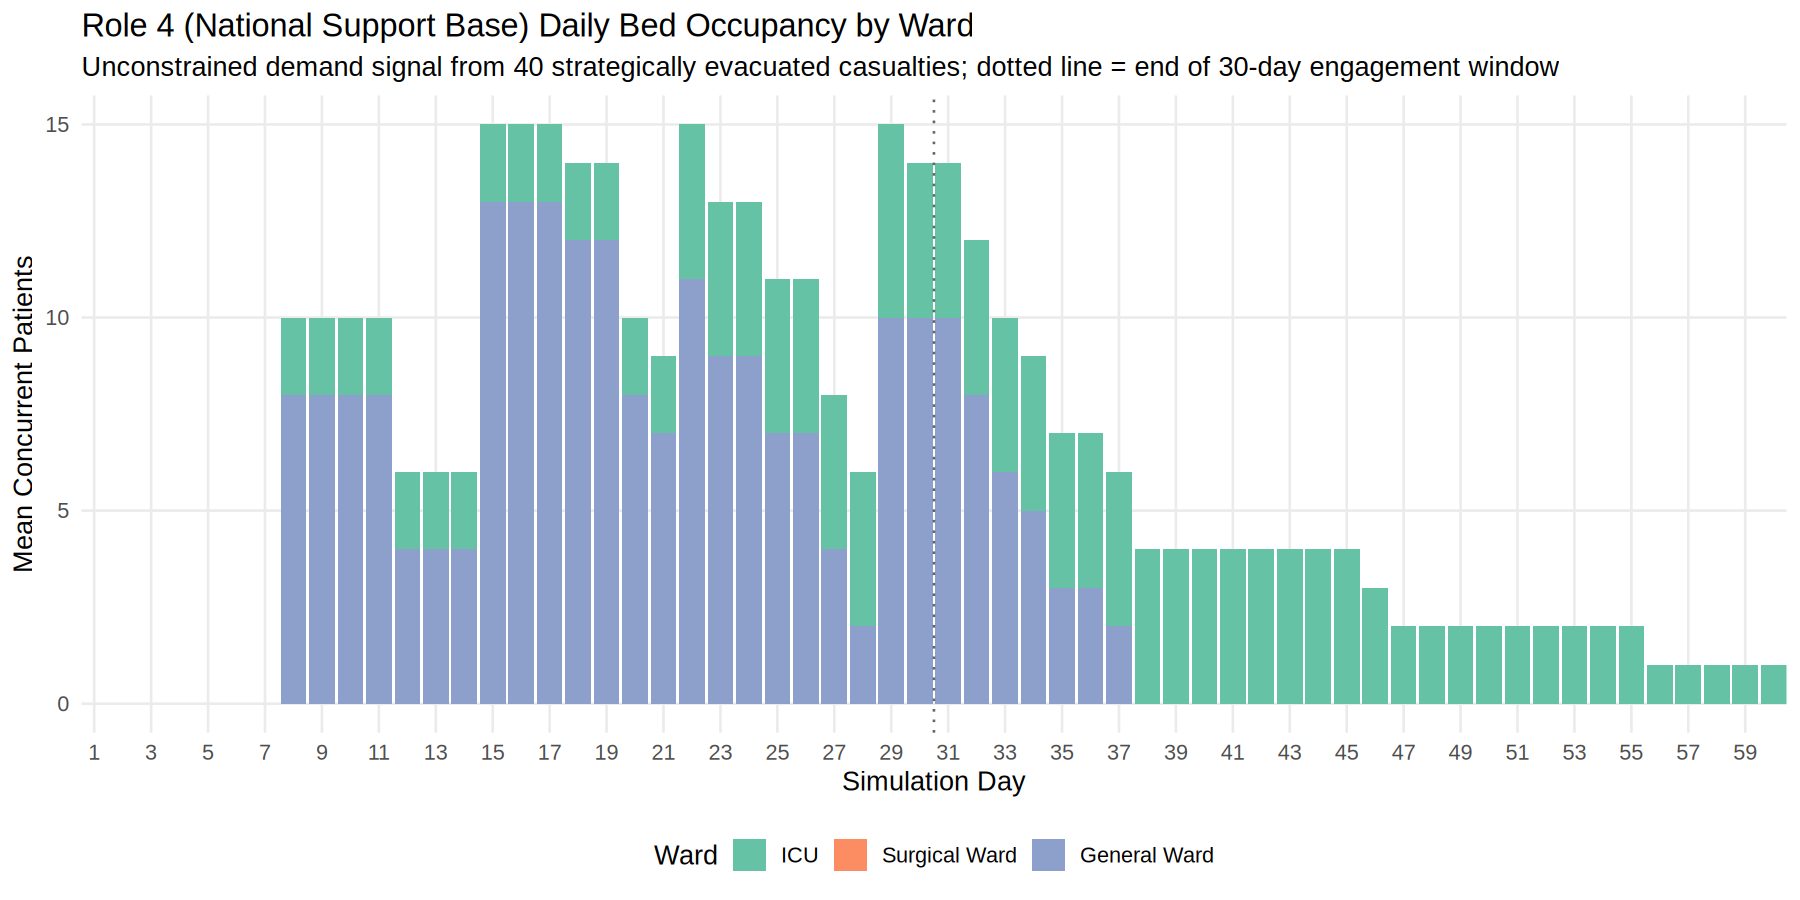
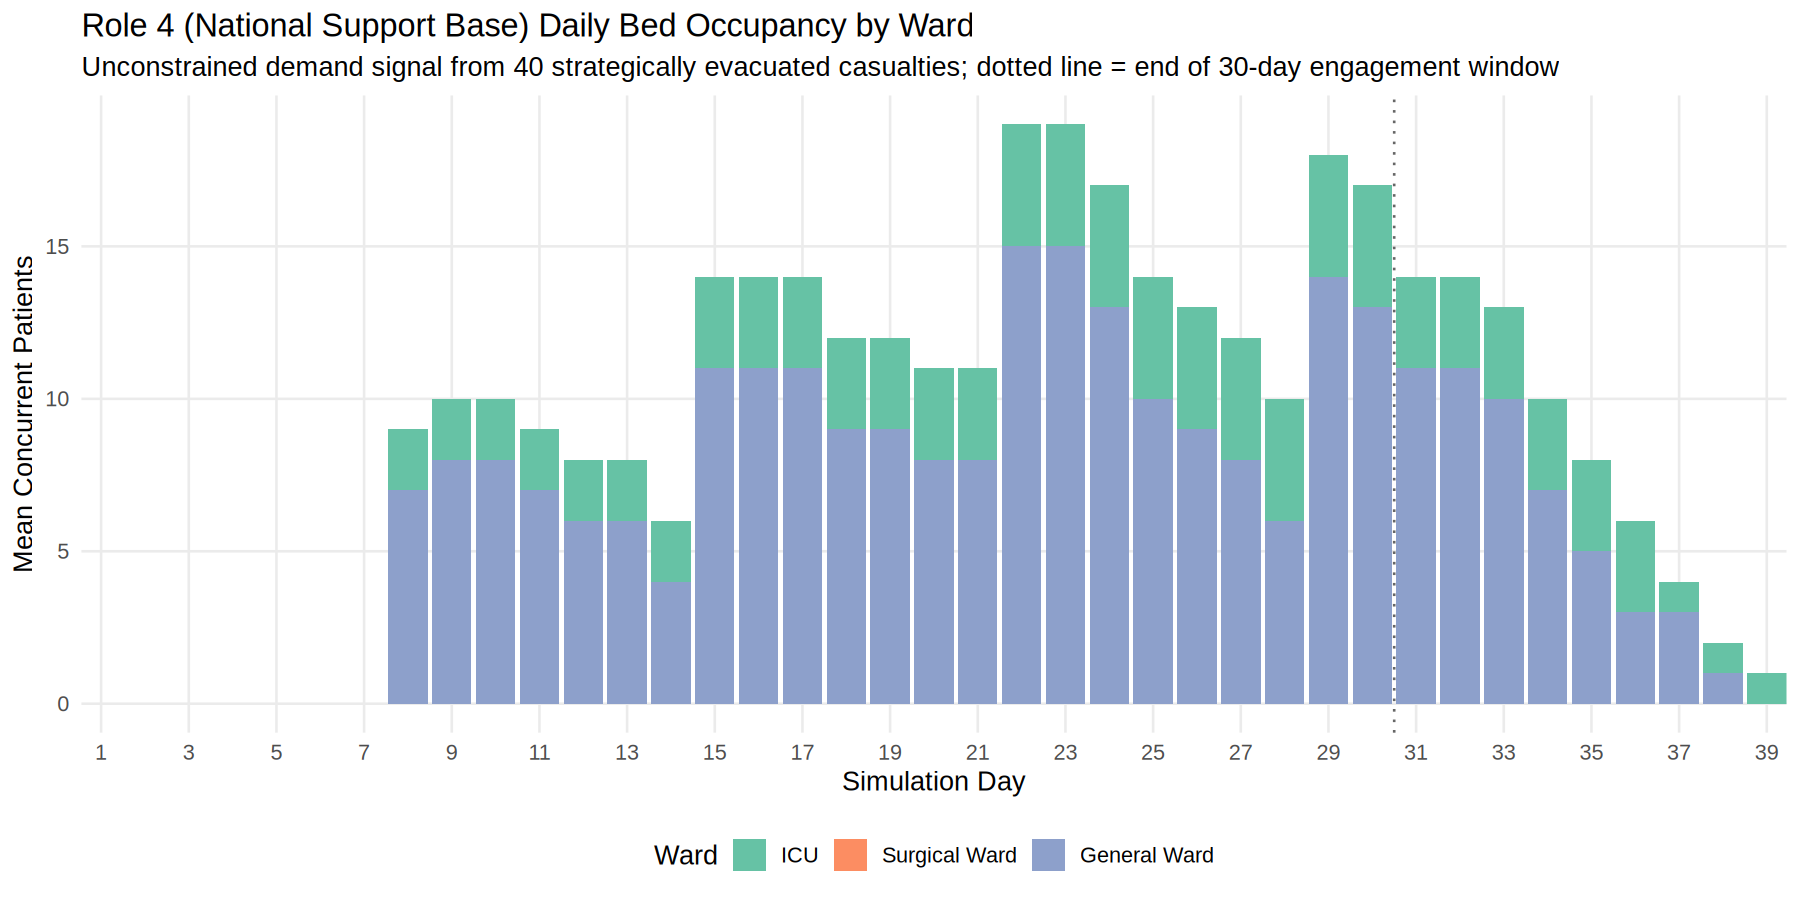
feat(issue-23): add periodic DOW risk while awaiting strategic AME
Casualties queued for AME (either pool) were previously the one
population in the model facing zero mortality risk regardless of wait
duration — every other DOW checkpoint precedes a further step that
would price in delay-accrued risk at the next check, but the R2E
post-operative check is the model's last fixed checkpoint, and the
subsequent AME wait is unbounded.

ame_dow_poll() (R/trajectories.R) closes this gap using the same
conditional-increment logistic formula as every other checkpoint
(dow_prob_conditional(), same priority-based parameters and
dow_ceiling), applied periodically (role4.ame.dow_check_interval,
default 1440 min/daily) via the same timeout-then-rollback polling
pattern already used for R2E OT-ICU gating deferral. Availability is
checked immediately on entry so casualties who board with zero wait
are unaffected; only queued casualties enter the poll loop. A
casualty who dies while queued releases their held R2E bed and routes
to KIA processing exactly as at every other checkpoint. New
dow_echelon = 5 distinguishes this checkpoint in dow_by_echelon.csv
("ame_wait").

Exposed as a new Shiny field (Strategic AME panel) and documented as
a new README subsection (Died of Wounds — AME Wait Checkpoint) with a
MODEL ASSUMPTION block for the poll interval default. Limitation L16
and the Strategic Evacuation and Role 4 Demand section updated with
fresh seed-42 figures.

Debugging note: an early implementation placed the new helper function
[…]

diff --git a/README.md b/README.md
@@ -71,6 +71,7 @@ This tool supports iterative refinement and stakeholder engagement, offering a t
   - [Multi-Echelon Check and Conditional Increment](#multiechelon-check-and-conditional-increment)
   - [Treatment Efficacy Modifiers](#treatment-efficacy-modifiers)
   - [Post-Operative Checkpoint (Issue #43)](#postoperative-checkpoint-issue-43)
+  - [AME Wait Checkpoint (Issue #23 third follow-up)](#ame-wait-checkpoint-issue-23-third-followup)
 - [Scenario Profiles](#scenario-profiles)
   - [Mechanism](#mechanism)
   - [Parameter classification](#parameter-classification)
@@ -736,6 +737,24 @@ Both the ICU and post-op-hold recovery paths converge on a shared post-operative
 > **Basis:** DCR factor (0.56) anchored to Braverman et al. (2021) [[40]](#References); DCS factor (0.32) anchored to Holcomb et al. (2013) PROMMTT [[41]](#References); TCCC factor (0.83) derived from Eastridge et al. (2012) [[38]](#References) non-compressible haemorrhage analysis. The R2E DCS second-operation factor (0.57) is an informed estimate with no direct literature anchor.
 > **Uncertainty:** Low–Medium for DCR and DCS factors; High for R2E second-operation factor.
 > **Consequence if wrong:** Overestimating efficacy factors reduces modelled DOW sensitivity to system overload for treated casualties; underestimating inflates DOW for patients who received definitive care. The relative ordering (DCS reduces ceiling more than DCR; DCR more than TCCC) reflects clinical consensus and is unlikely to reverse under parameter uncertainty.
+
+### AME Wait Checkpoint (Issue #23 third follow-up)
+
+Every DOW checkpoint described above fires once, at a fixed transition point, and precedes a further step in the casualty's journey that would otherwise price in any delay-accrued risk at the *next* checkpoint. The Strategic Evac disposition (see [Role 4 (National Support Base) Demand Modelling](#role-4-national-support-base-demand-modelling)) breaks this pattern: once a casualty is queued awaiting strategic AME, the R2E post-operative check (`dow_echelon == 4`, above) is the *last* checkpoint in the model, and the subsequent wait is unbounded — a critical-route casualty can wait multiple weeks under the shipped configuration (see [Strategic Evacuation and Role 4 Demand](#strategic-evacuation-and-role-4-demand)). Prior to this follow-up, that wait carried zero mortality risk regardless of duration.
+
+`ame_dow_poll()` (`R/trajectories.R`) closes this gap using the same conditional-increment logistic mechanism as every other checkpoint (`dow_prob_conditional()`, the same priority-based parameters and `dow_ceiling`), applied periodically rather than once:
+
+1. **Capacity already available** — the casualty boards immediately, with no poll and no artificial minimum wait (matches the pre-follow-up fast path exactly).
+2. **Capacity unavailable** — the casualty enters a poll loop: wait `role4.ame.dow_check_interval` minutes, roll DOW (conditional on elapsed time since injury, same as every other checkpoint), then re-check AME capacity and repeat if still unavailable. A casualty who dies during this poll releases the R2E bed they were holding and is routed to KIA processing exactly as at every other DOW checkpoint. `dow_echelon = 5` distinguishes this checkpoint in `outputs/dow_by_echelon.csv` (`"ame_wait"`).
+
+This uses the same `timeout()`-then-`rollback()` polling pattern already used for R2E OT–ICU gating deferral (`icu_gating.defer_check_interval`, [Post-Operative Checkpoint](#postoperative-checkpoint-issue-43) above) — a resource-availability poll with no resource held while checking (the polling loop itself holds no lock; only the already-seized R2E bed persists across polls, which is the entire point of this feature).
+
+> **MODEL ASSUMPTION — AME Wait DOW Poll Interval:** The shipped default polls every `dow_check_interval = 1440` minutes (once daily).
+> **Basis:** Informed estimation. No open-access source specifies a periodic mortality-reassessment cadence for casualties held awaiting strategic evacuation. Daily polling is chosen as a plausible clinical-reassessment cadence for a stabilised, staged patient (as opposed to the 30-minute `icu_gating.defer_check_interval` used for an acute pre-operative deferral, where risk can change materially within the hour) and keeps the per-casualty poll count tractable given waits now measured in days to weeks.
+> **Uncertainty:** High.
+> **Consequence if wrong:** A shorter interval increases the number of conditional-increment rolls per unit time without changing the model's asymptotic DOW ceiling (the shifted logistic function's cumulative probability is approximately interval-invariant for small intervals relative to the survival curve's timescale — see [Multi-Echelon Check and Conditional Increment](#multiechelon-check-and-conditional-increment)); it primarily affects how finely wait-duration-dependent mortality is resolved, not its total magnitude. A much longer interval could materially understate risk by coarsening the conditional-increment approximation.
+
+**Seed-42 finding:** exactly 1 of 133 seed-42 evacuation decisions results in a death while awaiting AME (`outputs/dow_by_echelon.csv`: `ame_wait` = 1), on the standard (not critical) route. This is a small, single-run count and should not be read as validating the checkpoint's magnitude — it is a low-probability-per-poll mechanism by design (the shifted-logistic survival function is already deep in its plateau region by the time a casualty has survived to this last checkpoint, so each poll's *conditional* increment is small even though the cumulative wait can be long) — but it confirms the mechanism fires correctly and is no longer structurally silent. A saturated-demand or longer-run stress test to observe this mechanism at a larger sample size, mirroring the OT–ICU gating stress test in [Post-Operative Checkpoint](#postoperative-checkpoint-issue-43), is identified as further development work.
 
 ---
 
@@ -1479,6 +1498,8 @@ This two-pool design, and the choice of which casualties use which bed/pool, is 
 > **Uncertainty:** Medium — lower than the original single-pool design, since the split itself now captures the main acuity distinction doctrine describes.
 > **Consequence if wrong:** Any further within-pool prioritisation (e.g. by wait time already accrued, or by finer clinical grading) would redistribute wait time within a pool without changing that pool's aggregate throughput or backlog.
 
+**Wait-time mortality (Issue #23 third follow-up).** Casualties queued in either pool are periodically re-assessed for DOW risk while waiting, closing what was previously a structural gap: the R2E post-operative check is the model's last fixed checkpoint, so an unbounded AME wait carried zero mortality risk before this follow-up. See [AME Wait Checkpoint](#ame-wait-checkpoint-issue-23-third-followup) (Died of Wounds) for the mechanism and the seed-42 finding.
+
 **Unconstrained-baseline AME demand.** `compute_ame_demand()` (`R/analysis.R`) is retained as a separate, deliberately *unconstrained* comparison against the larger of the two configurations' combined standard + critical throughput: `sorties_required = ceiling(daily_evacuation_count / max(config_a_total, config_b_total))`, grouped by `evacuation_decision_day` (not the schedule-gated `evacuation_day`) — i.e. "how many sorties would same-day, uncapped, best-case AME need to clear each day's decisions," without distinguishing pool or which configuration actually flew. Comparing this single aggregate baseline against the real constrained resources' actual, route-decomposed throughput (`ame_wait_time_summary`, `ame_backlog_plot` — see Domain 7 below) is what makes each pool's adequacy (or inadequacy) visible — including cases like the seed-42 baseline where the aggregate baseline looks entirely reasonable while one pool is badly saturated.
 
 **Multi-run aggregation.** When `analyse_run()` is called with multi-replication monitoring data (Issue #1 framework), peak Role 4 occupancy and the unconstrained-baseline total sortie count are additionally summarised as mean ± 95% CI across replications (`role4_replication_summary`, `ame_replication_summary`), using the same t-distribution CI convention as `summarise_replications()` (`R/replication.R`).
@@ -1866,25 +1887,27 @@ At `high_intensity` casualty rates, the mechanism is unambiguous: daily volume f
 
 ### Strategic Evacuation and Role 4 Demand
 
-This section presents the seed-42 30-day single-run Role 4 (national support base) and strategic AME outputs, under the two-configuration AME sortie model at its 7-day schedule interval (Issue #23 and its follow-ups; see [Role 4 (National Support Base) Demand Modelling](#role-4-national-support-base-demand-modelling)). Of the 387 total casualties generated, 123 reached the strategic evacuation decision (`r2e_evac = 1`); of those, 40 had actually boarded an AME sortie and reached Role 4 by the end of the 30-day run, with 83 still queued and occupying an R2E bed.
+This section presents the seed-42 30-day single-run Role 4 (national support base) and strategic AME outputs, under the two-configuration AME sortie model with its wait-time DOW poll active (Issue #23 and its follow-ups; see [Role 4 (National Support Base) Demand Modelling](#role-4-national-support-base-demand-modelling)). Of the 386 total casualties generated, 133 reached the strategic evacuation decision (`r2e_evac = 1`); of those, 40 had actually boarded an AME sortie and reached Role 4 by the end of the 30-day run, with 93 still queued and occupying an R2E bed.
 
 ![Role 4 (National Support Base) Daily Bed Occupancy by Ward](images/role4_census.png)
 
-Daily Role 4 bed occupancy rises through the engagement window, reaching a peak of 15.0 concurrent patients (all wards combined) on day 15, and — unlike a fully-cleared run — has not yet decayed to zero within the window shown, since a substantial share of demand (the critical-route ICU population) is still backlogged at R2E rather than having reached Role 4 at all.
+Daily Role 4 bed occupancy rises through the engagement window, reaching a peak of 19.0 concurrent patients (all wards combined) on day 22, and — unlike a fully-cleared run — has not yet decayed to zero within the window shown, since a substantial share of demand (the critical-route ICU population) is still backlogged at R2E rather than having reached Role 4 at all.
 
 ![Strategic AME Backlog Over Time by Route](images/ame_backlog.png)
 
-The two-pool split (see [Role 4 (National Support Base) Demand Modelling](#role-4-national-support-base-demand-modelling)) reveals a result an undifferentiated pool could not: **demand is unmet on both pools at the 7-day interval, though far more severely on the critical pool.** Of the 123 evacuation decisions, 80 route to the critical (Priority 1 surgical) pool and 43 to the standard pool. The standard pool now shows a genuine, cyclical backlog (peaking at 17 queued mid-run, draining to near-zero right after each successful sortie before rebuilding — see the backlog plot's lower panel) rather than the near-zero wait seen at the model's original 3-day interval: 32 of 43 decisions had boarded by day 30 (11 still waiting), mean wait among those who did board was 5.0 days (p10–p90: 2.1–8.5 days). The critical pool tells a starker story: only 8 of 80 decisions had boarded by day 30 (72 still waiting), mean wait among those who did board was 15.7 days (p10–p90: 5.9–26.0 days).
+The two-pool split (see [Role 4 (National Support Base) Demand Modelling](#role-4-national-support-base-demand-modelling)) reveals a result an undifferentiated pool could not: **demand is unmet on both pools at the 7-day interval, though far more severely on the critical pool.** Of the 133 evacuation decisions, 97 route to the critical (Priority 1 surgical) pool and 36 to the standard pool. The standard pool shows a genuine, cyclical backlog (draining to near-zero right after each successful sortie before rebuilding — see the backlog plot's lower panel) rather than the near-zero wait seen at the model's original 3-day interval: 32 of 36 decisions had boarded by day 30 (4 still waiting), mean wait among those who did board was 2.1 days (p10–p90: 0.0–4.0 days). The critical pool tells a starker story: only 8 of 97 decisions had boarded by day 30 (89 still waiting), mean wait among those who did board was 12.8 days (p10–p90: 5.9–19.6 days).
 
-The configuration-selection mechanism (see MODEL ASSUMPTION — AME Configuration Selection Rule) is directly responsible for this result, and is itself the most important finding of this follow-up: `select_ame_configuration()` chose **Configuration A (2 critical/8 standard) at every one of the 4 successful sorties** (all 4 scheduled opportunities flew this run — no cancellation was drawn at the 15% failure rate across only 4 trials), because the critical pool's backlog is persistently positive, so `unmet(A) < unmet(B)` by at least 2 on the critical term regardless of how the now-larger standard backlog compares — Configuration B (0 critical/20 standard) was never selected in this run. The practical consequence is that the critical pool's real per-sortie throughput (2) is *lower* than the fixed single-pool design this replaced (4 critical/sortie), even though the planner's Configuration A explicitly provisions critical-care lift on every flyable sortie — a genuinely realistic "one airframe, one loadout" constraint (Configuration A cannot simultaneously carry Configuration B's extra 12 standard seats) produces a *worse* critical-pool wait than the doctrinally-looser "both pools fill every sortie" design it replaced, and the longer 7-day interval (see MODEL ASSUMPTION — AME Schedule Interval, Failure Probability, and Configuration Defaults) compounds this further by giving the backlog more time to build between opportunities. The unconstrained theoretical baseline — same-day, uncapped, best-case AME at 20-casualty capacity (Configuration B's total, the larger of the two) — would have needed only 30 total sorties across the whole run; the real schedule flew 4 sorties at Configuration A's 10-seat total (40 aggregate seats) against 123 aggregate demand, a materially tighter margin than both the single-pool design's original 216-seat aggregate and the two-configuration model's own 3-day-interval aggregate (90 seats). This is the direct, intended payoff of decomposing AME by route and by configuration rather than reporting one aggregate throughput figure.
+The configuration-selection mechanism (see MODEL ASSUMPTION — AME Configuration Selection Rule) is directly responsible for this result, and is itself the most important finding of this follow-up: `select_ame_configuration()` chose **Configuration A (2 critical/8 standard) at every one of the 4 successful sorties** (all 4 scheduled opportunities flew this run — no cancellation was drawn at the 15% failure rate across only 4 trials), because the critical pool's backlog is persistently positive, so `unmet(A) < unmet(B)` by at least 2 on the critical term regardless of how the now-larger standard backlog compares — Configuration B (0 critical/20 standard) was never selected in this run. The practical consequence is that the critical pool's real per-sortie throughput (2) is *lower* than the fixed single-pool design this replaced (4 critical/sortie), even though the planner's Configuration A explicitly provisions critical-care lift on every flyable sortie — a genuinely realistic "one airframe, one loadout" constraint (Configuration A cannot simultaneously carry Configuration B's extra 12 standard seats) produces a *worse* critical-pool wait than the doctrinally-looser "both pools fill every sortie" design it replaced, and the longer 7-day interval (see MODEL ASSUMPTION — AME Schedule Interval, Failure Probability, and Configuration Defaults) compounds this further by giving the backlog more time to build between opportunities. The unconstrained theoretical baseline — same-day, uncapped, best-case AME at 20-casualty capacity (Configuration B's total, the larger of the two) — would have needed only 30 total sorties across the whole run; the real schedule flew 4 sorties at Configuration A's 10-seat total (40 aggregate seats) against 133 aggregate demand, a materially tighter margin than both the single-pool design's original 216-seat aggregate and the two-configuration model's own 3-day-interval aggregate (90 seats). This is the direct, intended payoff of decomposing AME by route and by configuration rather than reporting one aggregate throughput figure.
 
-A second, non-obvious effect of the two-pool model: because critical-pool-awaiting casualties hold a real R2E ICU bed for as long as 15+ days on average, they compete directly with R2E's own post-operative ICU recovery population for the same finite bed pool (Issue #43's OT–ICU gating). At the seed-42 baseline this pushes R2E's post-operative pathway split sharply toward the hold-bed override path: `hold=85`, `icu=4` (compare to the documented pre-follow-up baseline in `CLAUDE.md`: `icu=110`, `hold=14`) — with the sustained critical-pool backlog occupying nearly all available ICU beds, almost no post-operative patient can complete the nominal ICU recovery pathway, and 23 surgeries were deferred pending ICU availability against a pre-follow-up baseline of essentially none. See the note below on why this is not a regression, and Limitation L17 for the systemic-coupling consequence.
+A second, non-obvious effect of the two-pool model: because critical-pool-awaiting casualties hold a real R2E ICU bed for as long as 12+ days on average, they compete directly with R2E's own post-operative ICU recovery population for the same finite bed pool (Issue #43's OT–ICU gating). At the seed-42 baseline this pushes R2E's post-operative pathway split sharply toward the hold-bed override path: `hold=104`, `icu=4` (compare to the documented pre-follow-up baseline in `CLAUDE.md`: `icu=110`, `hold=14`) — with the sustained critical-pool backlog occupying nearly all available ICU beds, almost no post-operative patient can complete the nominal ICU recovery pathway, and 17 surgeries were deferred pending ICU availability against a pre-follow-up baseline of essentially none. See the note below on why this is not a regression, and Limitation L17 for the systemic-coupling consequence.
 
-As a directional check on the acceptance criterion that Role 4 load should respond correctly to theatre medical policy, re-running the same seed-42 30-day configuration with `r2eheavy.recovery.in_theatre_rate` raised from the shipped 0.1 to 0.5 (i.e. materially more casualties recovering in theatre rather than being strategically evacuated) reduces casualties reaching Role 4 from 40 to 19 and peak Role 4 occupancy from 15.0 to 11.0 — confirming that increasing in-theatre recovery capacity reduces Role 4 load, in the expected direction, with the two-configuration AME resource now in the loop. This comparison run is illustrative only and does not alter the documented `in_theatre_rate = 0.1` baseline.
+The wait-time DOW poll ([AME Wait Checkpoint](#ame-wait-checkpoint-issue-23-third-followup)) fires correctly against this backlog: `outputs/dow_by_echelon.csv` records 1 death while awaiting AME in this seed-42 run — on the standard route, not the critical route with the much longer average wait, illustrating the single-run count's limited statistical weight (see the checkpoint's own MODEL ASSUMPTION block for why the per-poll probability is small even for long waits).
+
+As a directional check on the acceptance criterion that Role 4 load should respond correctly to theatre medical policy, re-running the same seed-42 30-day configuration with `r2eheavy.recovery.in_theatre_rate` raised from the shipped 0.1 to 0.5 (i.e. materially more casualties recovering in theatre rather than being strategically evacuated) reduces casualties reaching Role 4 from 40 to 22 and peak Role 4 occupancy from 19.0 to 10.0 — confirming that increasing in-theatre recovery capacity reduces Role 4 load, in the expected direction, with the two-configuration AME resource and its wait-time DOW poll now in the loop. This comparison run is illustrative only and does not alter the documented `in_theatre_rate = 0.1` baseline.
 
 > **Reproducibility note:** the figures above were produced in an ad hoc R 4.3.3 sandbox (not the project's pinned `rocker/rstudio:4.4.2` Dev Container), following the same practice and caveat used for prior unpinned-sandbox figures in this project (see the `CLAUDE.md` Key Parameters provenance caveat).
 >
-> Unlike the original Issue #23 attribute-capture work (RNG-stream-neutral), the AME follow-up work in this section **is not RNG-stream-neutral**: the periodic AME sortie generator (`build_ame_sortie_trajectory()`) draws a `runif()` per scheduled sortie opportunity, interleaved in event time with casualty trajectory execution, and casualties now hold R2E ICU/Hold beds for a variable AME wait rather than releasing them (or never seizing them) instantly — both change downstream RNG draw timing and resource contention for the rest of the run, and even total casualty count is affected by these shifts since Issue #18's force-regeneration feedback loop couples arrival timing to casualty-event timing. Two further AME follow-ups are each an additional, independent RNG-stream shift on top of the first: the configuration-selection redesign (`select_ame_configuration()` reads current queue sizes but draws no new random numbers itself, so its shift comes entirely from the changed *capacity values themselves* altering when and which casualties clear R2E beds), and the schedule interval default change from 3 to 7 days (fewer, further-spaced `runif()` draws for the sortie-failure roll, and a materially different resource-contention timeline). Every seed-42 KPI printed by this run downstream of R2E disposition differs from the documented post-Issue-18 baseline in `CLAUDE.md` (e.g. R2E post-op pathway icu=110/hold=14 → icu=4/hold=85); most pre-R2E-disposition figures are close to but not exactly the documented baseline, consistent with the RNG-stream-shift pattern already documented for prior merges (Issue #43, #73, #76, #18). A maintainer re-run in the pinned container, and a `CLAUDE.md` Key Parameters table refresh, are needed before these figures are fully authoritative — see the Post-Merge Checklist in `CLAUDE.md`.
+> Unlike the original Issue #23 attribute-capture work (RNG-stream-neutral), the AME follow-up work in this section **is not RNG-stream-neutral**: the periodic AME sortie generator (`build_ame_sortie_trajectory()`) draws a `runif()` per scheduled sortie opportunity, interleaved in event time with casualty trajectory execution, and casualties now hold R2E ICU/Hold beds for a variable AME wait rather than releasing them (or never seizing them) instantly — both change downstream RNG draw timing and resource contention for the rest of the run, and even total casualty count is affected by these shifts since Issue #18's force-regeneration feedback loop couples arrival timing to casualty-event timing. Three further AME follow-ups are each an additional, independent RNG-stream shift on top of the first: the configuration-selection redesign (`select_ame_configuration()` reads current queue sizes but draws no new random numbers itself, so its shift comes entirely from the changed *capacity values themselves* altering when and which casualties clear R2E beds); the schedule interval default change from 3 to 7 days (fewer, further-spaced `runif()` draws for the sortie-failure roll, and a materially different resource-contention timeline); and the wait-time DOW poll (`ame_dow_poll()` draws an additional `runif()` per poll interval per queued casualty — a new, previously-nonexistent source of RNG consumption for every casualty who waits at all). Every seed-42 KPI printed by this run downstream of R2E disposition differs from the documented post-Issue-18 baseline in `CLAUDE.md` (e.g. R2E post-op pathway icu=110/hold=14 → icu=4/hold=104); most pre-R2E-disposition figures are close to but not exactly the documented baseline, consistent with the RNG-stream-shift pattern already documented for prior merges (Issue #43, #73, #76, #18). A maintainer re-run in the pinned container, and a `CLAUDE.md` Key Parameters table refresh, are needed before these figures are fully authoritative — see the Post-Merge Checklist in `CLAUDE.md`.
 
 ### Comparative Scenario Analysis
 
@@ -1958,7 +1981,7 @@ DOW probability is now modelled as a time-dependent shifted logistic function of
 Resources are seized as whole team vectors at R2B. A second casualty cannot use any team member even when the first casualty requires only a subset of skills. At R2E, the trajectory seizes OT bed resources but does not seize the surgical team; the R2E team schedule therefore has no operative effect on surgical timing, and R2E surgery can proceed at any hour regardless of whether the team is nominally on shift. Skill-specific bottlenecks (surgeon vs. anaesthetist vs. nursing officer) and task-sharing under surge conditions are invisible. OT utilisation KPIs understate true contention, and R2E surgical throughput is overstated until team seizure is implemented. **Impact: High.** Addressed in Issue #4 (individual resource seizure refactor).
 
 **L17 — Critical-Pool AME-Awaiting Casualties Compete for R2E ICU Beds with Post-Operative Recovery (High Impact on R2E ICU/OT-Gating Capacity Findings at the Shipped AME Configuration)**
-Because critical-pool AME-awaiting casualties occupy a real R2E ICU bed for the duration of their wait (Issue #23 follow-up — see [Role 4 (National Support Base) Demand Modelling](#role-4-national-support-base-demand-modelling)), they compete for the same finite bed pool as the OT–ICU gating mechanism's post-operative recovery patients (Issue #43; see [Died of Wounds — Post-Operative Checkpoint](#died-of-wounds)). At the shipped seed-42 baseline, where the critical AME pool is persistently saturated (mean 15.7-day wait — see [Strategic Evacuation and Role 4 Demand](#strategic-evacuation-and-role-4-demand)), this is not a modest effect: the R2E post-operative pathway split moves from the documented pre-follow-up baseline (`icu`=110, `hold`=14, `CLAUDE.md`) to `icu`=4, `hold`=85, and 23 surgeries were deferred pending ICU availability against essentially none pre-follow-up. This is a genuine, intended emergent interaction — not a bug — reflecting the reality that a casualty awaiting strategic evacuation still occupies theatre medical capacity, which was the explicit motivation for this work; the two-pool acuity split (this issue's second follow-up) was itself adopted specifically because an undifferentiated single AME pool both overstated ICU contention (routing all Priority 1 surgical evacuees through ICU-bed-holding regardless of real transport-capacity constraints) and hid the genuinely scarce critical-care transport bottleneck the two-pool split now makes visible. It was accepted as a deliberate design trade-off in preference to a separate, dedicated AME-holding bed pool (which would avoid the ICU coupling but require a new resource type not grounded in any established R2E establishment structure). **Impact: High** at the shipped configuration specifically, where the configuration-selection mechanism (a third Issue #23 follow-up) settles on Configuration A's 2-critical-seat throughput at every sortie — *lower* than the single-pool design's previous fixed 4/sortie — against critical-pool demand (80 of 123 seed-42 decisions route to it), and the shipped 7-day schedule interval (a fourth Issue #23 follow-up, set to match the reinforcement mechanism's intended cadence) gives that backlog more time to build between opportunities than the model's original 3-day interval — any existing or future R2E ICU/OT-gating capacity finding (Domain 3, Domain 4) computed with strategic evacuation enabled must now be read alongside the Role 4/AME outputs (Domain 7), not in isolation, since the two are no longer independent. A configuration pair with more critical capacity, a third configuration weighted more heavily toward critical lift, or a shorter `schedule_interval_days`, would each reduce this coupling; the shipped defaults were not tuned to avoid it, since demonstrating a genuine bottleneck honestly is more valuable than parameterising it away.
+Because critical-pool AME-awaiting casualties occupy a real R2E ICU bed for the duration of their wait (Issue #23 follow-up — see [Role 4 (National Support Base) Demand Modelling](#role-4-national-support-base-demand-modelling)), they compete for the same finite bed pool as the OT–ICU gating mechanism's post-operative recovery patients (Issue #43; see [Died of Wounds — Post-Operative Checkpoint](#died-of-wounds)). At the shipped seed-42 baseline, where the critical AME pool is persistently saturated (mean 12.8-day wait — see [Strategic Evacuation and Role 4 Demand](#strategic-evacuation-and-role-4-demand)), this is not a modest effect: the R2E post-operative pathway split moves from the documented pre-follow-up baseline (`icu`=110, `hold`=14, `CLAUDE.md`) to `icu`=4, `hold`=104, and 17 surgeries were deferred pending ICU availability against essentially none pre-follow-up. This is a genuine, intended emergent interaction — not a bug — reflecting the reality that a casualty awaiting strategic evacuation still occupies theatre medical capacity, which was the explicit motivation for this work; the two-pool acuity split (this issue's second follow-up) was itself adopted specifically because an undifferentiated single AME pool both overstated ICU contention (routing all Priority 1 surgical evacuees through ICU-bed-holding regardless of real transport-capacity constraints) and hid the genuinely scarce critical-care transport bottleneck the two-pool split now makes visible. It was accepted as a deliberate design trade-off in preference to a separate, dedicated AME-holding bed pool (which would avoid the ICU coupling but require a new resource type not grounded in any established R2E establishment structure). **Impact: High** at the shipped configuration specifically, where the configuration-selection mechanism (a third Issue #23 follow-up) settles on Configuration A's 2-critical-seat throughput at every sortie — *lower* than the single-pool design's previous fixed 4/sortie — against critical-pool demand (97 of 133 seed-42 decisions route to it), and the shipped 7-day schedule interval (a fourth Issue #23 follow-up, set to match the reinforcement mechanism's intended cadence) gives that backlog more time to build between opportunities than the model's original 3-day interval — any existing or future R2E ICU/OT-gating capacity finding (Domain 3, Domain 4) computed with strategic evacuation enabled must now be read alongside the Role 4/AME outputs (Domain 7), not in isolation, since the two are no longer independent. A configuration pair with more critical capacity, a third configuration weighted more heavily toward critical lift, or a shorter `schedule_interval_days`, would each reduce this coupling; the shipped defaults were not tuned to avoid it, since demonstrating a genuine bottleneck honestly is more valuable than parameterising it away.
 
 ### Medium Impact
 
@@ -1986,8 +2009,8 @@ The Priority 1 override threshold, the post-op hold penalty multiplier (3.0), an
 **L12 — Falklands KIA:WIA Ratio, High Intensity Skeleton Incompleteness, and Missing Vietnam Source (Medium Impact on Scenario Validation)**
 The `moderate_intensity` scenario profile (Issue #54, see [Scenario Profiles](#scenario-profiles)) reproduces a KIA:WIA ratio of 0.452 across 30 replications, against the published 255 KIA : 777 WIA (0.328) South Atlantic campaign record [[43]](#References). This ratio is a pre-existing characteristic of the base `generators.wia_cbt`/`generators.kia_cbt` casualty generation rates (FORECAS Table A.8 [[8]](#References), calibrated under Issue #1) combined with the lognormal-cap generation mechanism ([Casualty Generation](#casualty-generation)); it is not introduced or corrected by Issue #54, which overrides only the DOW ceiling and treatment efficacy factors. Separately, the `high_intensity` profile is an explicitly unvalidated demonstration skeleton: only casualty generation rates and distribution family are sourced (FORECAS Tables A.7/A.9 [[8]](#References)); DOW ceiling, treatment efficacy, priority distribution, DNBI composition, and transport times are inherited from the Falklands-calibrated base rather than sourced for the Okinawa context. No Vietnam-calibrated profile exists in this project: FORECAS's Appendix A has no standalone Vietnam combat-troop WIA/KIA distribution table (only a DNBI table), so no genuinely FORECAS-sourced Vietnam parameters could be identified — a Vietnam scenario should wait for a source that actually tabulates it rather than being estimated without one. **Impact: Medium.** The DOW rate — the parameter Issue #54 is responsible for — is well within tolerance of its historical target; the KIA:WIA discrepancy, the `high_intensity` skeleton's incompleteness, and the absence of a sourced Vietnam profile would need to be addressed by a future issue (most likely Issue #10) revisiting the casualty generator calibration or completing a fully validated `high_intensity` scenario profile.
 
-**L16 — Role 4 Modelled as Unconstrained Demand; Within-Pool Boarding Priority and Wait-Time Mortality Not Modelled (Medium Impact on Strategic Evacuation Outputs)** *(Partially resolved — Issue #23 follow-ups)*
-Role 4 (the national support base) is still computed as a post-simulation calculation over the evacuation event log (`compute_role4_census()`), not as a simmer resource with finite capacity — Role 4 bed occupancy can exceed any real-world national support base's actual bed count without producing a queue, deferral, or any other capacity-constrained behaviour; the output is a demand *signal* for national planners, not a validated statement that the national support base can absorb that demand. Strategic AME, however, *is* now a constrained, scheduled, two-pool simmer resource with a doctrinally-grounded critical/standard acuity split and a planner-defined, backlog-minimising choice between two aircraft configurations (see [Role 4 (National Support Base) Demand Modelling](#role-4-national-support-base-demand-modelling)), so the remaining gaps are narrower than originally scoped: (1) no *within-pool* boarding priority is modelled beyond the critical/standard split itself — casualties board strictly FIFO by decision order within their pool (MODEL ASSUMPTION — AME Boarding Order); (2) no additional DOW risk is modelled while a casualty is queued awaiting AME — the R2E post-operative DOW checkpoint (`dow_echelon == 4`) fires once, before the Strategic Evac disposition, and no further mortality check occurs however long the subsequent AME wait is; this is optimistic, and materially so for the critical pool specifically, where the seed-42 baseline shows a mean 15.7-day wait among casualties who are, by this model's own routing logic, the most severely injured (see [Strategic Evacuation and Role 4 Demand](#strategic-evacuation-and-role-4-demand)); (3) unclaimed sortie capacity "banks" forward on both pools rather than being wasted (MODEL ASSUMPTION — AME Capacity Banking), a simplification with no real-world analogue; (4) the LoS category/ward mapping, LoS distribution parameters, the AME schedule interval/failure probability/configuration capacity defaults, and the configuration-selection rule itself, are all informed estimates or design choices rather than literature-extracted values (see the MODEL ASSUMPTION blocks in the Role 4 sub-section); (5) exactly two aircraft configurations are supported — a planner cannot define a third loadout, or a time-varying preference between configurations (e.g. more critical-heavy sorties during an anticipated surge). **Impact: Medium.** The demand *signal* (relative magnitude and timing of Role 4 load, its route-decomposed backlog behaviour, and its correct-direction response to theatre-level policy changes such as `in_theatre_rate`) is the feature's intended contribution and is unaffected by these gaps; an absolute capacity-adequacy claim about the national support base, a wait-time mortality estimate, or a finer-grained evacuation prioritisation policy comparison would each require further modelling this section deliberately does not implement (see Further Development).
+**L16 — Role 4 Modelled as Unconstrained Demand; Within-Pool Boarding Priority Not Modelled (Medium Impact on Strategic Evacuation Outputs)** *(Partially resolved — Issue #23 follow-ups)*
+Role 4 (the national support base) is still computed as a post-simulation calculation over the evacuation event log (`compute_role4_census()`), not as a simmer resource with finite capacity — Role 4 bed occupancy can exceed any real-world national support base's actual bed count without producing a queue, deferral, or any other capacity-constrained behaviour; the output is a demand *signal* for national planners, not a validated statement that the national support base can absorb that demand. Strategic AME, however, *is* now a constrained, scheduled, two-pool simmer resource with a doctrinally-grounded critical/standard acuity split and a planner-defined, backlog-minimising choice between two aircraft configurations (see [Role 4 (National Support Base) Demand Modelling](#role-4-national-support-base-demand-modelling)), and casualties queued awaiting AME are now periodically re-assessed for DOW risk while waiting ([AME Wait Checkpoint](#ame-wait-checkpoint-issue-23-third-followup) — a third Issue #23 follow-up), so the remaining gaps are narrower still: (1) no *within-pool* boarding priority is modelled beyond the critical/standard split itself — casualties board strictly FIFO by decision order within their pool (MODEL ASSUMPTION — AME Boarding Order); (2) the wait-time DOW poll's interval (daily) is an informed estimate rather than a literature-derived reassessment cadence, and has only been observed to fire once in the seed-42 baseline — a stress test at larger sample size to validate the mechanism's magnitude (not just its correctness) is not yet performed (MODEL ASSUMPTION — AME Wait DOW Poll Interval); (3) unclaimed sortie capacity "banks" forward on both pools rather than being wasted (MODEL ASSUMPTION — AME Capacity Banking), a simplification with no real-world analogue; (4) the LoS category/ward mapping, LoS distribution parameters, the AME schedule interval/failure probability/configuration capacity defaults, and the configuration-selection rule itself, are all informed estimates or design choices rather than literature-extracted values (see the MODEL ASSUMPTION blocks in the Role 4 sub-section); (5) exactly two aircraft configurations are supported — a planner cannot define a third loadout, or a time-varying preference between configurations (e.g. more critical-heavy sorties during an anticipated surge). **Impact: Medium.** The demand *signal* (relative magnitude and timing of Role 4 load, its route-decomposed backlog behaviour, and its correct-direction response to theatre-level policy changes such as `in_theatre_rate`) is the feature's intended contribution and is unaffected by these gaps; an absolute capacity-adequacy claim about the national support base, or a finer-grained evacuation prioritisation policy comparison, would each require further modelling this section deliberately does not implement (see Further Development).
 
 ### Low Impact
 
@@ -2023,7 +2046,7 @@ The single run analysis has demonstrated that while the current simulation frame
 
 Dead-heading return legs for pooled transport assets are now modelled (Issue #6; see Transport Assets — Dead-Heading Return Legs), and a fleet-size capacity margin sweep is now implemented (Issue #57; see [Transport Fleet Capacity Margin](#transport-fleet-capacity-margin)), quantifying how much margin the current establishment carries and at what fleet size the transport layer becomes a binding constraint. That sweep is run at the Falklands-derived casualty rate only. The immediate follow-on opportunity is to re-run it under Vietnam/Okinawa-intensity casualty rates (Issue #10; see [Comparative Scenario Analysis](#comparative-scenario-analysis)) and under mass casualty injection (Issue #9; see [Mass Casualty Event Stress Test](#mass-casualty-event-stress-test)), where the demand side of the margin is materially higher and the current always-large-margin finding may not hold — `plot_transport_capacity_margin_by_fleet_size()`'s `path` parameter allows sweeping against an env_data.json pre-configured for either scenario, but does not yet accept a scenario name directly.
 
-Pulsing strategic medical evacuation availability to simulate its temporal constraints is now implemented (Issue #23 follow-ups; see [Role 4 (National Support Base) Demand Modelling](#role-4-national-support-base-demand-modelling)): strategic AME is a scheduled, two-pool, capacity-limited, failure-prone simmer resource rather than continuously available lift, with casualties occupying real R2E beds while queued — the critical/standard pool split (grounded in AJP-4.10(B)'s Casualty Staging Unit and CCATT/CCAST concepts) already captures the model's main acuity-based prioritisation, and the planner now chooses between two named aircraft configurations rather than fixing a single per-pool capacity pair, with the simulation selecting whichever configuration minimises total unmet need at each scheduled opportunity. Follow-ups remain, tracked in Limitation L16: *within*-pool boarding priority (currently strict FIFO once the critical/standard split has applied); DOW risk while awaiting a sortie (currently none — the post-operative DOW checkpoint fires once, before the wait begins, which is a materially optimistic gap given the critical pool's multi-day mean wait at the shipped baseline); and support for more than two configurations or a time-varying configuration preference (e.g. tasking more critical-heavy sorties during an anticipated surge window). Role 4 (the national support base hospital itself) remains modelled as unconstrained demand — see Limitation L16. The critical-pool/post-operative-ICU bed coupling this design introduces (Limitation L17) is itself a candidate for a future dedicated AME-holding bed pool, should the coupling prove undesirable for a given planning question; the shipped default configurations (2 critical/8 standard vs 0 critical/20 standard) also demonstrate that the mutually-exclusive-loadout redesign can produce a *worse* critical-pool wait than the fixed-pair design it replaced, so retuning the configuration capacities is a more immediate lever than the coupling itself for a planner concerned specifically with critical-pool throughput.
+Pulsing strategic medical evacuation availability to simulate its temporal constraints is now implemented (Issue #23 follow-ups; see [Role 4 (National Support Base) Demand Modelling](#role-4-national-support-base-demand-modelling)): strategic AME is a scheduled, two-pool, capacity-limited, failure-prone simmer resource rather than continuously available lift, with casualties occupying real R2E beds while queued — the critical/standard pool split (grounded in AJP-4.10(B)'s Casualty Staging Unit and CCATT/CCAST concepts) already captures the model's main acuity-based prioritisation, the planner chooses between two named aircraft configurations rather than fixing a single per-pool capacity pair (with the simulation selecting whichever configuration minimises total unmet need at each scheduled opportunity), and casualties queued in either pool are now periodically re-assessed for DOW risk while waiting ([AME Wait Checkpoint](#ame-wait-checkpoint-issue-23-third-followup)), closing what was previously the model's only unbounded, risk-free wait. Follow-ups remain, tracked in Limitation L16: *within*-pool boarding priority (currently strict FIFO once the critical/standard split has applied); validating the wait-time DOW poll's magnitude at a larger sample size than the single seed-42 event observed so far (a saturated-demand or longer-run stress test, mirroring the OT–ICU gating stress test); and support for more than two configurations or a time-varying configuration preference (e.g. tasking more critical-heavy sorties during an anticipated surge window). Role 4 (the national support base hospital itself) remains modelled as unconstrained demand — see Limitation L16. The critical-pool/post-operative-ICU bed coupling this design introduces (Limitation L17) is itself a candidate for a future dedicated AME-holding bed pool, should the coupling prove undesirable for a given planning question; the shipped default configurations (2 critical/8 standard vs 0 critical/20 standard) also demonstrate that the mutually-exclusive-loadout redesign can produce a *worse* critical-pool wait than the fixed-pair design it replaced, so retuning the configuration capacities is a more immediate lever than the coupling itself for a planner concerned specifically with critical-pool throughput.
 
 Model fidelity can also be improved through structured expert consultation. Engaging clinicians, medical planners, and operational commanders would support refinement of treatment durations, triage logic, and evacuation thresholds. This would ensure that the simulation reflects not only doctrinal intent but also clinical realities and operational constraints.
 